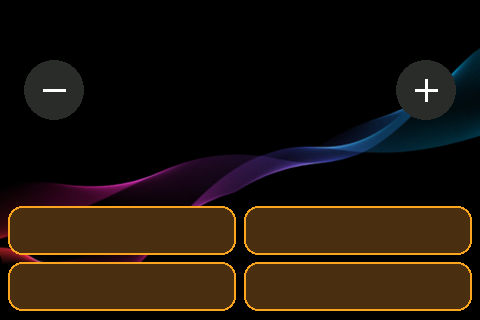
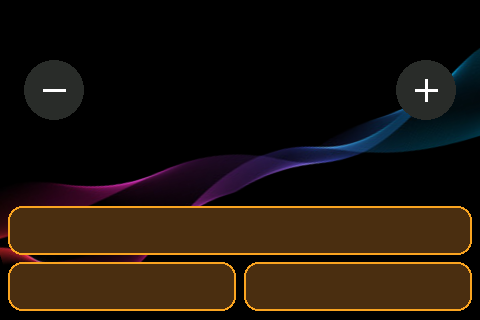
style: Midnight heating tile as a toggle
The climate page's heating tile toggles between heat and off (heat_on,
kept by the firmware, tells the page which way). Its look follows what
the thermostat is doing: amber while heating (hvac_action, or the embedded
thermostat's action), bright when on but idle, dim when off. The separate
off tile is gone.

Changed region(s): [[0.4688, 0.625, 0.5312, 0.8125]]

diff --git a/components/nspanel_easy/page_climate.cpp b/components/nspanel_easy/page_climate.cpp
@@ -141,8 +141,6 @@ ClimateView climate_view(const SnapshotEntity &entity) {
 static const char *climate_tile_label(const char *name) {
   if (strcmp(name, "button03") == 0) {
     return "lbl_heat";
-  } else if (strcmp(name, "button07") == 0) {
-    return "lbl_off";
   } else if (strcmp(name, "button08") == 0) {
     return "button08_lbl";
   } else if (strcmp(name, "button09") == 0) {
@@ -151,41 +149,40 @@ static const char *climate_tile_label(const char *name) {
   return nullptr;
 }
 
-void climate_tile_draw(const char *name, bool shown, bool active, uint16_t color) {
+void climate_tile_draw(const char *name, bool shown, bool on, bool working, uint16_t color) {
   if (nextion_display == nullptr) {
     return;
   }  // if (no display)
-  const bool tile_button = strcmp(name, "button03") == 0 || strcmp(name, "button07") == 0 ||
-                           strcmp(name, "button08") == 0 || strcmp(name, "button09") == 0;
-  shown = shown && tile_button;  // the other HVAC modes are not shown on this page
+  const bool heating_tile = strcmp(name, "button03") == 0;
+  if (heating_tile) {
+    nextion_display->send_command_printf("climate.heat_on.val=%d", on ? 1 : 0);  // for its toggle
+  }  // if (heating_tile)
   const char *label = climate_tile_label(name);
-  if (!shown) {
+  if (!shown || label == nullptr) {  // only heating and the custom buttons are tiles
     nextion_display->hide_component(name);
     if (label != nullptr) {
       nextion_display->hide_component(label);
     }  // if (label)
     return;
-  }  // if (!shown)
+  }  // if (!shown || label == nullptr)
 #ifdef NSPANEL_EASY_HW_DISPLAY
   const bool light_theme = (current_theme == ThemeMode::LIGHT);
 #else   // NSPANEL_EASY_HW_DISPLAY
   const bool light_theme = false;
 #endif  // NSPANEL_EASY_HW_DISPLAY
-  // Amber means "on": an active off mode keeps the plain tile, only its text stands out
-  const bool amber = active && strcmp(name, "button07") != 0;
+  // Amber means "working": heating right now, or the device on
+  const bool amber = on && working;
   const uint8_t tiles = light_theme ? (amber ? CLIMATE_TILES_ON_PIC_LIGHT : CLIMATE_TILES_PIC_LIGHT)
                                     : (amber ? CLIMATE_TILES_ON_PIC_DARK : CLIMATE_TILES_PIC_DARK);
   if (light_theme) {
-    color = active ? Colors::RGB565_MIDNIGHT_TEXT : Colors::RGB565_MIDNIGHT_TEXT_SECONDARY;
+    color = on ? Colors::RGB565_MIDNIGHT_TEXT : Colors::RGB565_MIDNIGHT_TEXT_SECONDARY;
   }  // if (light_theme)
   nextion_display->send_command_printf("climate.%s.picc=%" PRIu8, name, tiles);
   nextion_display->send_command_printf("climate.%s.pco=%" PRIu16, name, color);
   nextion_display->show_component(name);
-  if (label != nullptr) {
-    nextion_display->send_command_printf("climate.%s.picc=%" PRIu8, label, tiles);
-    nextion_display->send_command_printf("climate.%s.pco=%s", label, active ? "color_pco_main" : "color_pco_secondary");
-    nextion_display->show_component(label);
-  }  // if (label)
+  nextion_display->send_command_printf("climate.%s.picc=%" PRIu8, label, tiles);
+  nextion_display->send_command_printf("climate.%s.pco=%s", label, on ? "color_pco_main" : "color_pco_secondary");
+  nextion_display->show_component(label);
 }
 
 void climate_mode_buttons_render(const SnapshotEntity &entity) {
@@ -193,69 +190,15 @@ void climate_mode_buttons_render(const SnapshotEntity &entity) {
     return;
   }  // if (no display)
   const std::vector<std::string> *modes = entity.list("hvac_modes");
+  // Heating right now: from hvac_action when the climate reports it, else whenever it is in heat mode
+  const std::string &hvac_action = entity.attribute("hvac_action");
+  const bool heating = climate_unusable(hvac_action) || hvac_action == "heating" || hvac_action == "preheating";
   for (const ClimateModeButton &button : CLIMATE_MODE_BUTTONS) {
     const bool supported =
         modes != nullptr && std::find(modes->begin(), modes->end(), button.hvac_mode) != modes->end();
     const bool active = entity.state == button.hvac_mode;
-    climate_tile_draw(button.name, supported, active, active ? button.color_active : button.color_inactive);
+    climate_tile_draw(button.name, supported, active, heating, active ? button.color_active : button.color_inactive);
   }  // for (button : CLIMATE_MODE_BUTTONS)
-}
-
-void climate_presets_render(const SnapshotEntity &entity) {
-  const optional<uint32_t> features = parse_number<uint32_t>(entity.attribute("supported_features"));
-  const std::vector<std::string> *modes = entity.list("preset_modes");
-  const bool supported = (features.value_or(0) & 16) != 0 && modes != nullptr && !modes->empty();  // PRESET_MODE
-  climate_preset_modes = supported ? *modes : std::vector<std::string>{};
-  climate_preset_mode = climate_unusable(entity.attribute("preset_mode")) ? "" : entity.attribute("preset_mode");
-  if (nextion_display == nullptr) {
-    return;
-  }  // if (no display)
-  if (!supported) {
-    nextion_display->hide_component(hmi::climate::PRESET_BUTTON.name);
-    return;
-  }  // if (no presets)
-
-  // Standard presets get the icon Home Assistant uses for them; none or a custom preset, the generic one
-  const char *icon = climate_preset_icons[0];
-  bool active = false;
-  if (!climate_preset_mode.empty()) {
-    active = !str_equals_case_insensitive(climate_preset_mode, "none");
-    for (uint8_t idx = 1; idx < CLIMATE_PRESET_NAMES_COUNT; ++idx) {
-      if (str_equals_case_insensitive(climate_preset_mode, climate_preset_names[idx])) {
-        icon = climate_preset_icons[idx];
-        break;
-      }  // if (standard preset)
-    }  // for each standard preset
-  }  // if (a preset is set)
-  nextion_display->set_component_text(hmi::climate::PRESET_BUTTON.name, icon);
-  // Theme colors from the display, so the button follows the light and dark themes
-  nextion_display->send_command_printf("climate.%s.pco=%s", hmi::climate::PRESET_BUTTON.name,
-                                       active ? "color_pco_main" : "color_pco_secondary");
-  nextion_display->show_component(hmi::climate::PRESET_BUTTON.name);
-}
-
-bool climate_presets_to_picker(const std::string &entity_id) {
-#ifdef NSPANEL_EASY_PAGE_POPUP_SELECT
-  if (climate_preset_modes.empty()) {
-    ESP_LOGW(TAG, "%s has no presets", entity_id.c_str());
-    return false;
-  }  // if (no presets)
-  popup_select_cache_entity = entity_id;
-  popup_select_cache_context = CLIMATE_PRESET_MODE_CONTEXT;
-  popup_select_cache_mode = POPUP_SELECT_MODE_SINGLE;
-  popup_select_cache_options = popup_select_visible_options(climate_preset_modes, climate_preset_mode);
-  popup_select_cache_mask = 0;
-  for (size_t idx = 0; idx < popup_select_cache_options.size(); ++idx) {
-    if (popup_select_cache_options[idx] == climate_preset_mode) {
-      popup_select_cache_mask = (1u << idx);
-      break;
-    }  // if (active preset)
-  }  // for each option
-  return true;
-#else   // NSPANEL_EASY_PAGE_POPUP_SELECT
-  (void) entity_id;
-  return false;
-#endif  // NSPANEL_EASY_PAGE_POPUP_SELECT
 }
 
 #ifdef NSPANEL_EASY_SUBSCRIBE
@@ -291,7 +234,7 @@ void climate_sub_render(const SubBinding &binding, const SubRuntime &rt, const c
 #endif  // NSPANEL_EASY_PAGE_BUTTONS
   // An "on" device is an active (amber) tile
   if (current_page_id == get_page_id("climate")) {
-    climate_tile_draw(binding.component, true, active && available, color);
+    climate_tile_draw(binding.component, true, active && available, true, color);
   }  // if (climate page shown)
 }
 #endif  // NSPANEL_EASY_SUBSCRIBE

diff --git a/components/nspanel_easy/page_climate.h b/components/nspanel_easy/page_climate.h
@@ -187,16 +187,18 @@ static constexpr uint8_t CLIMATE_TILES_PIC_DARK = 162;      ///< Dark-theme tile
 static constexpr uint8_t CLIMATE_TILES_ON_PIC_DARK = 163;   ///< Dark-theme tiles, active
 
 /**
- * @brief Draw one tile button of the climate page (an HVAC mode or a custom button) and its label.
+ * @brief Draw one tile button of the climate page (heating or a custom button) and its label.
  *
- * Only heating and off are shown of the HVAC modes; the other modes stay hidden.
+ * Of the HVAC modes only heating is shown, as a toggle between heat and off; the other modes stay
+ * hidden. The heating tile also tells the page whether heating is on (`heat_on`), for its toggle.
  *
  * @param name Button component name, without page prefix.
  * @param shown Whether the button is shown.
- * @param active Whether its mode is the current one, or its entity is on.
+ * @param on Whether its mode is the current one, or its entity is on: bright icon and label.
+ * @param working Whether it is working right now (heating, or the device on): amber tile.
  * @param color Icon color.
  */
-void climate_tile_draw(const char *name, bool shown, bool active, uint16_t color);
+void climate_tile_draw(const char *name, bool shown, bool on, bool working, uint16_t color);
 
 /**
  * @brief Draw the HVAC mode buttons of a Home Assistant climate: only its modes, the current one highlighted.

diff --git a/hmi/dev/pics/midnight/generate_midnight.py b/hmi/dev/pics/midnight/generate_midnight.py
@@ -379,7 +379,7 @@ def light_page(out_dir: Path, mdi_font) -> int:
 # Its own pictures, so the water heater keeps picture-0037/0064.
 CLIMATE_BG = {"light": 152, "dark": 153}
 CLIMATE_ROUND = [((24, 60), "-"), ((396, 60), "+")]  # top-left of each 60x60 button, and its sign
-CLIMATE_TILES = [(8, 206, 235, 254), (244, 206, 471, 254),   # heating, off
+CLIMATE_TILES = [(8, 206, 471, 254),                         # heating (a toggle with off)
                  (8, 262, 235, 310), (244, 262, 471, 310)]   # button08, button09
 CLIMATE_TILE_PICS = {"light": (160, 161), "dark": (162, 163)}  # tiles, active tiles; see page_climate.h
 CLIMATE_SLIDERS = {  # slot -> (theme, part, top-left on the page, width)
